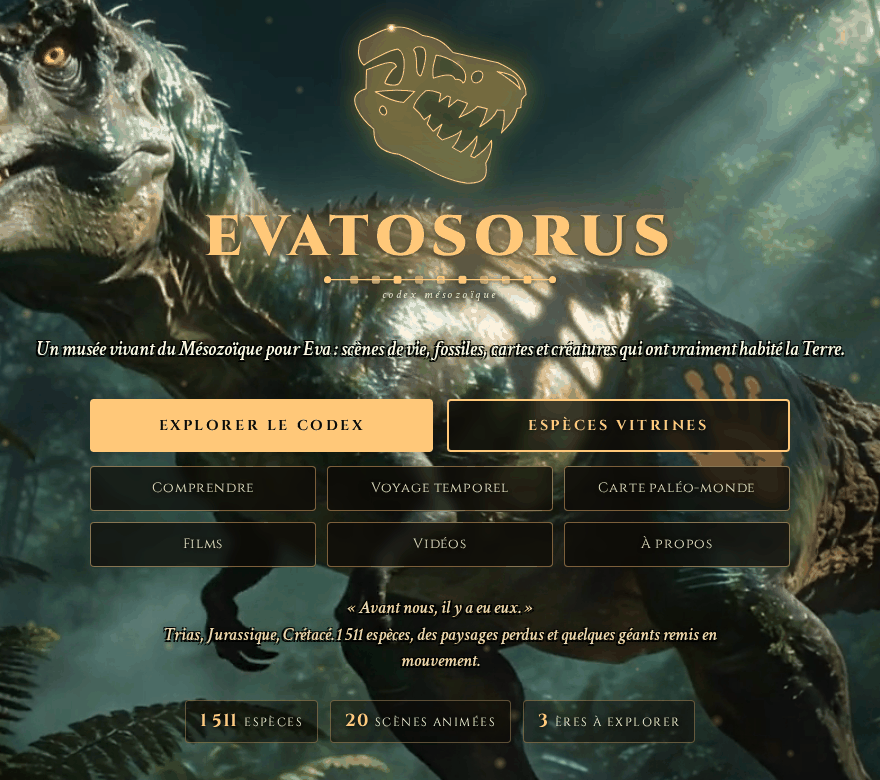
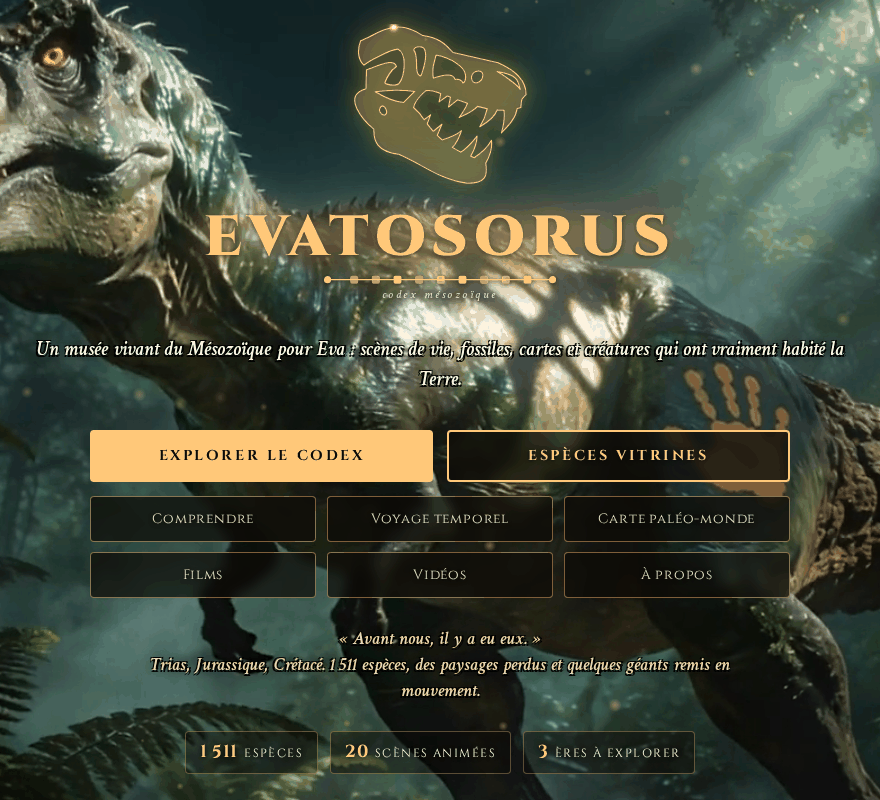
docs(L2): Nouveautés de l'accueil — retouches de la revue de contrôle, captures refaites
Sous-titre du logo, espacement des mots, libellés unifiés, bouton Pause
en haut sous 360 px ; captures téléphone et bureau refaites après t10–t13.

diff --git a/docs/nouveautes/2026-10-01-une-page-d-accueil-plus-claire-plus-legere-et-qu-on-peut-met.md b/docs/nouveautes/2026-10-01-une-page-d-accueil-plus-claire-plus-legere-et-qu-on-peut-met.md
@@ -10,7 +10,9 @@ La page d'accueil a été revue pour qu'on trouve plus vite son chemin, surtout 
 - **Au téléphone**, le crâne est plus petit et les deux portes d'entrée sont visibles tout de suite, sans faire défiler : **Explorer le codex** (le bouton plein) et **Espèces vitrines**. Les autres rubriques suivent en deux colonnes, la citation « Avant nous, il y a eu eux » et les chiffres passent juste en dessous.
 - La rubrique **Comprendre** apparaît enfin sur l'accueil, dans le même ordre que le menu des autres pages.
 - Les boutons restent **bien lisibles** quelle que soit l'image de la vidéo qui défile derrière.
-- Un bouton rond **Pause**, en bas à droite, arrête la vidéo de fond, le crâne lumineux et la poussière ; le site s'en souvient à la visite suivante. Si l'appareil demande moins d'animations, l'accueil affiche directement une image fixe.
+- Le sous-titre « codex mésozoïque » sous le logo se lit maintenant au téléphone, et les mots de l'accroche et de la citation respirent mieux.
+- Les rubriques portent le même nom partout, sur l'accueil comme dans le menu : **Carte paléo-monde**, **Vidéos**.
+- Un bouton rond **Pause**, en bas à droite (en haut à droite sur les très petits écrans), arrête la vidéo de fond, le crâne lumineux et la poussière ; le site s'en souvient à la visite suivante. Si l'appareil demande moins d'animations, l'accueil affiche directement une image fixe.
 - La page est **beaucoup plus légère** : environ 1,5 Mo au premier affichage au lieu de 11,5 Mo, car une seule vidéo se charge à la fois.
 - Les **lettres gravées** du site (Cinzel pour les titres, Crimson Text pour le texte) s'affichent désormais partout, au lieu d'une police de remplacement.
 - Le bouton d'ambiance sonore est masqué tant que le son n'est pas prêt : il reviendra avec le vrai enregistrement.
